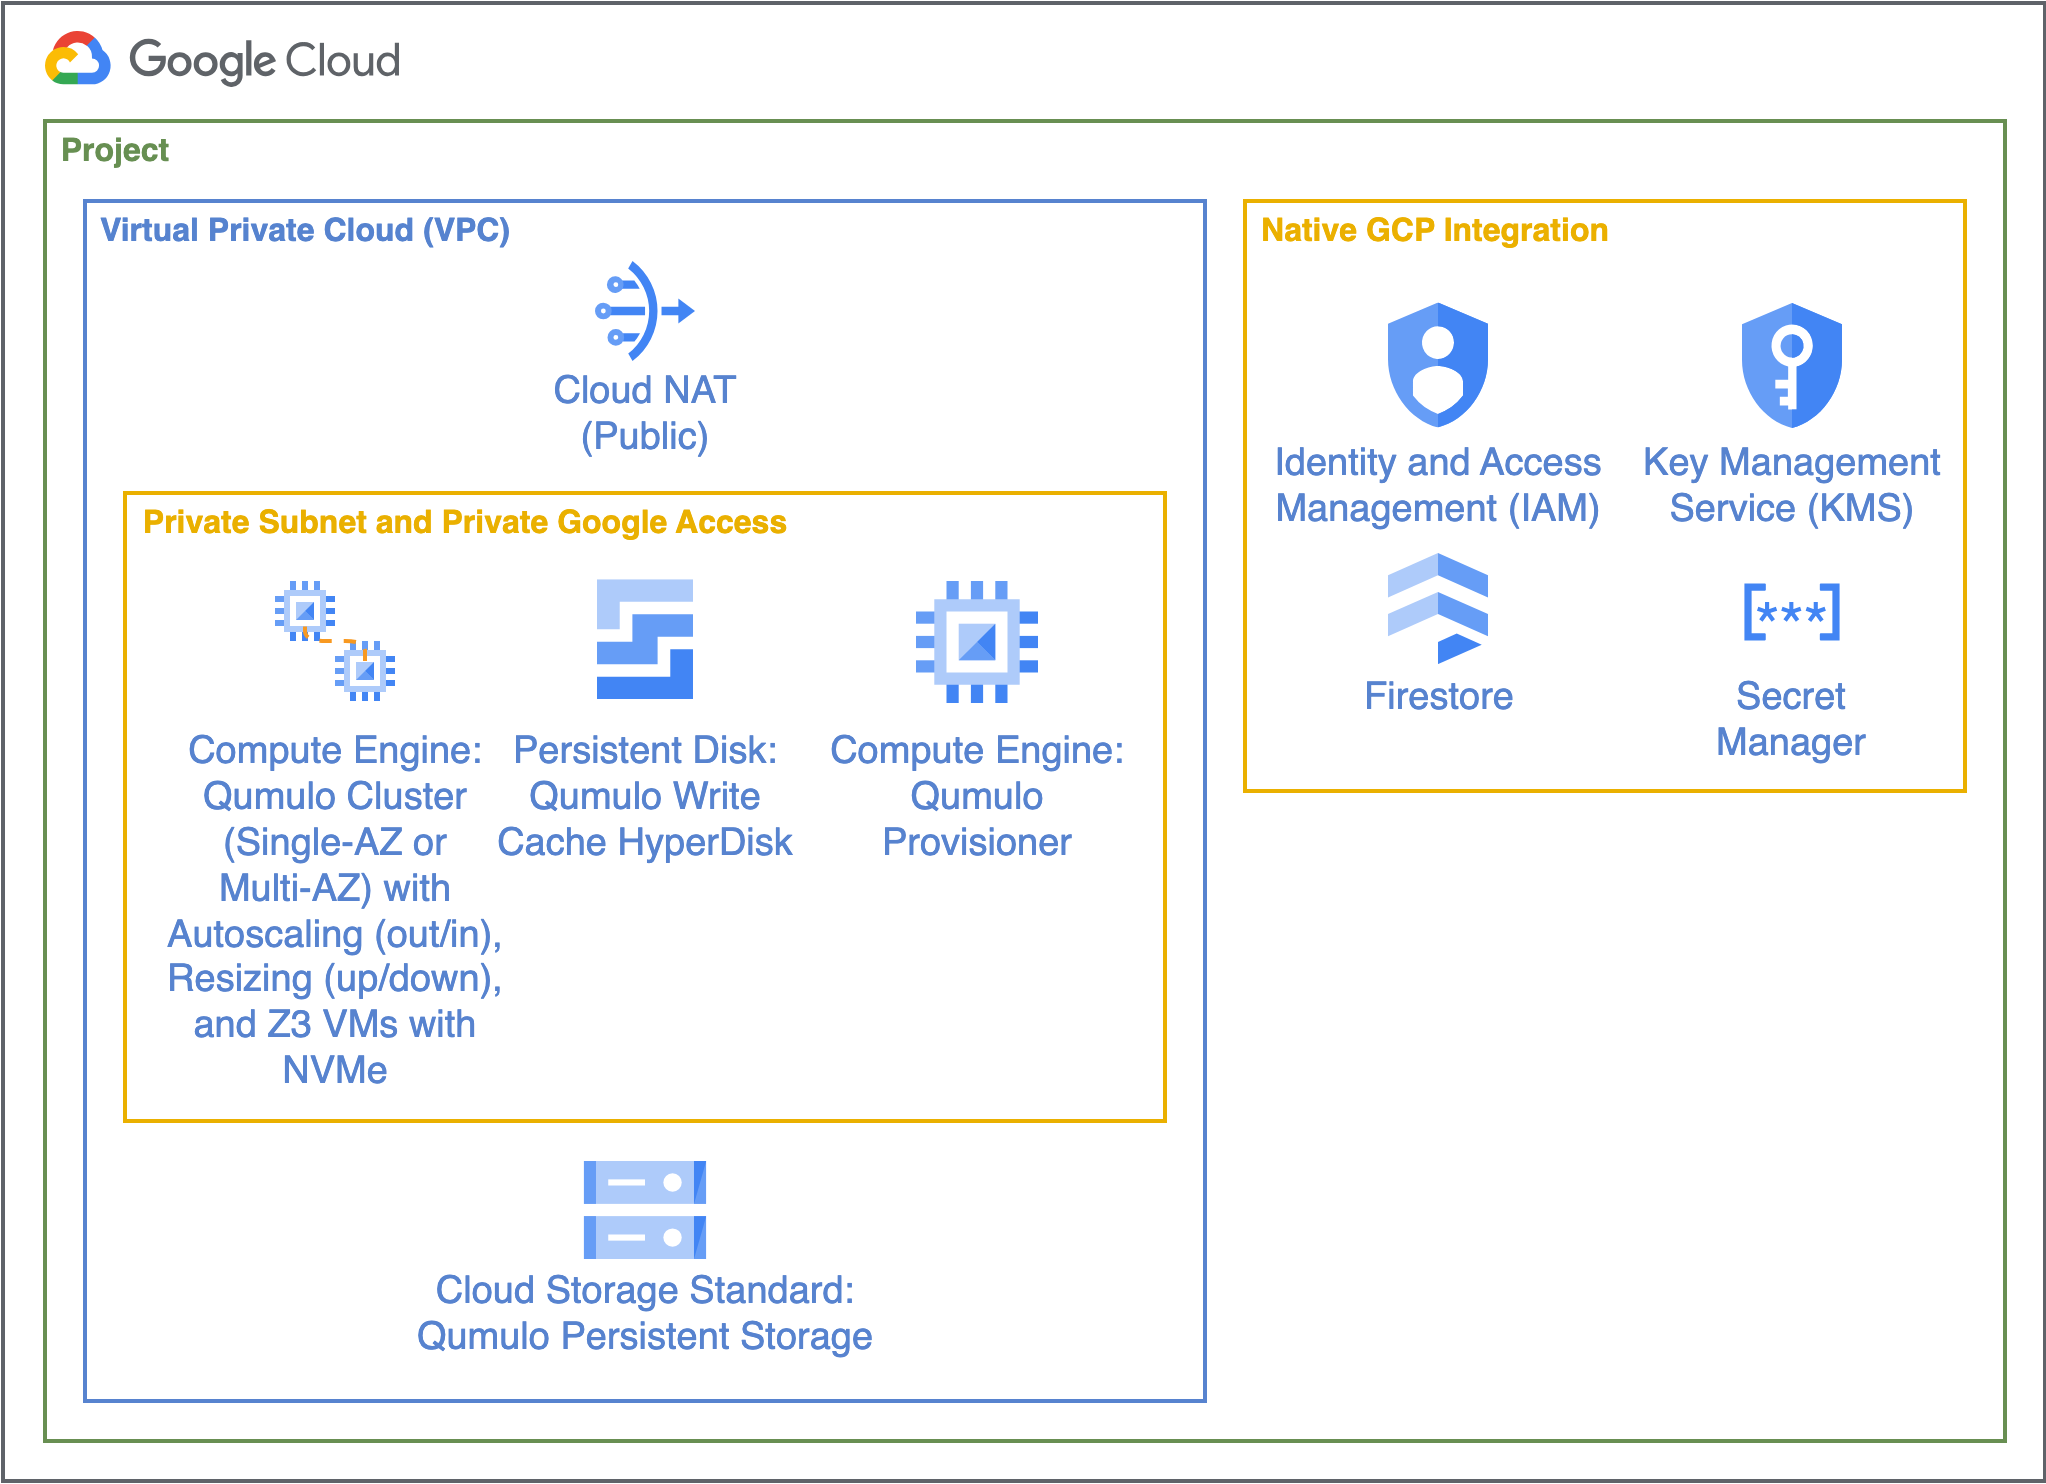
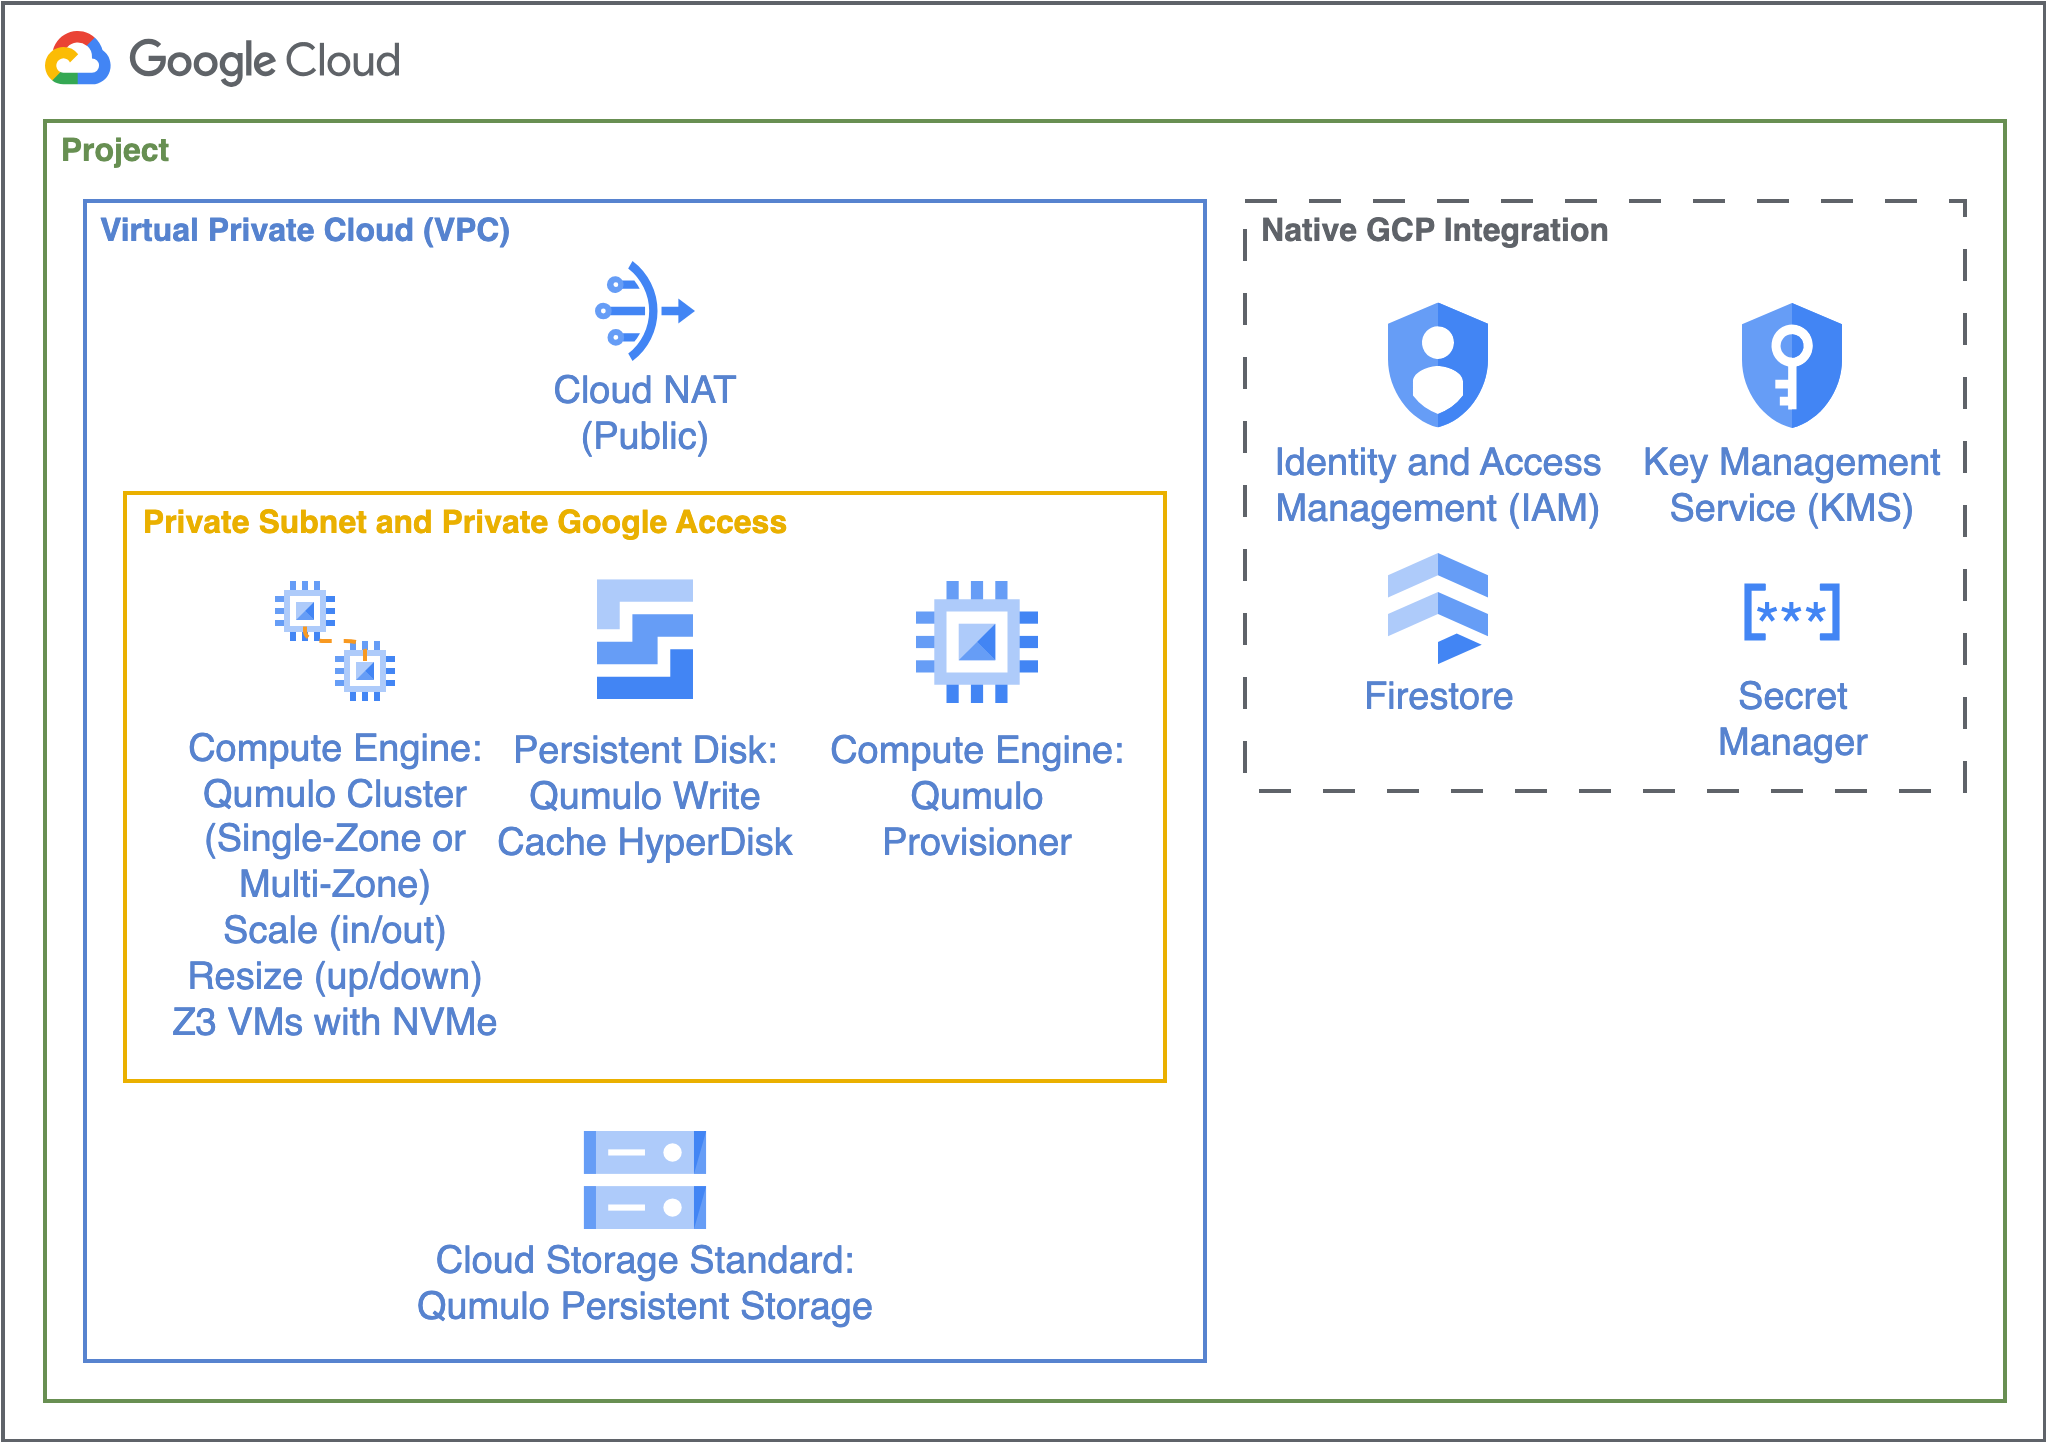
[DOCS-3052] CNQ on GCP Fix-Ups per Dack B. (#496)

diff --git a/_includes/content-reuse/cnq-guide-gcp/deployment-agnostic-cluster-compute-cache-resources.md b/_includes/content-reuse/cnq-guide-gcp/deployment-agnostic-cluster-compute-cache-resources.md
@@ -7,29 +7,31 @@ This section explains how to deploy compute and cache resources for a Qumulo clu
 
 * Provisioning completes successfully when the Provisioner shuts down automatically. If the Provisioner doesn't shut down, the provisioning cycle has failed and you must troubleshoot it. {{site.cnq.monitorGCPProvisioner}}
 
-* The first variable in the example configuration files in the `gcp-terraform-cnq` repository is `deployment_name`. To help avoid conflicts between load balancers, resource labels, and other deployment components, {{site.cnq.deploymentUniqueName}}
+* The first variable in the example configuration files in the `qumulo-terraform-gcp` repository is `deployment_name`. To help avoid conflicts between resource labels and other deployment components, {{site.cnq.deploymentUniqueName}}
 
 * If you plan to deploy multiple Qumulo clusters, give the `q_cluster_name` variable a unique name for each cluster.
 
+{% comment %}
 * We recommend forwarding DNS queries to [Qumulo Authoritative DNS (QDNS)](../network-configuration/configuring-authoritative-dns.html). For multi-zone deployments, specify a value for `q_cluster_fqdn`. Qumulo Core uses this variable to forward DNS requests to your cluster, where Qumulo Core resolves DNS for your floating IP addresses.
+{% endcomment %}
 
 ### To Deploy the Cluster Compute and Cache Resources
 1. Edit the `provider.tf` file:  
 
-   * To store the Terraform state remotely, add the name of an S3 bucket to the sections that begin with `backend "s3" {` and `data "terraform_remote_state" "persistent_storage" {`.
+   * To store the Terraform state remotely, add the name of an S3 bucket to the sections that begin with `backend "gcp" {` and `data "terraform_remote_state" "persistent_storage" {`.
 
-   * To store the Terraform state locally, comment the sections that begin with `backend "s3" {` and `data "terraform_remote_state" "persistent_storage" {` and uncomment the section that contains `backend = "local"`.
+   * To store the Terraform state locally, comment the sections that begin with `backend "gcp" {` and `data "terraform_remote_state" "persistent_storage" {` and uncomment the section that contains `backend = "local"`.
    
      {% capture noLocal %}{{site.cnq.dontRecommendLocalState}}{% endcapture %}  
      {% include important.html content=noLocal %}
 
-1. Navigate to the `gcp-terraform-cnq-<x.y>/compute` directory and then run the `terraform init` command.
+1. Navigate to the `qumulo-terraform-gcp-<x.y>/compute` directory and then run the `terraform init` command.
 
    Terraform prepares the environment and displays the message `Terraform has been successfully initialized!`
 
 1. Edit the `terraform.tfvars` file, specifying the values for all variables.
 
-   For more information, see `README.pdf` in `gcp-terraform-cnq-<x.y>.zip`.
+   For more information, see `README.pdf` in `qumulo-terraform-gcp-<x.y>.zip`.
 
 1. {{site.cnq.runTFapply}}
 

diff --git a/_includes/content-reuse/cnq-guide-gcp/deployment-agnostic-post-deployment-actions.md b/_includes/content-reuse/cnq-guide-gcp/deployment-agnostic-post-deployment-actions.md
@@ -21,7 +21,7 @@ This section describes the common actions you can perform on a {{site.cnqShort}}
      "{{site.exampleIP9}}"   
    ])
    ```   
-{% capture verifyProvis %}To ensure that the Provisioner shut downs automatically, monitor the `/qumulo/my-deployment-name/last-run-status` parameter for the Provisioner. {{site.cnq.monitorGCPProvisioner}}{% endcapture %}
+{% capture verifyProvis %}{{site.cnq.monitorGCPProvisionerShutdown}} {{site.cnq.monitorGCPProvisioner}}{% endcapture %}
 1. {{verifyProvis}}
 1. {{site.cnq.logIntoWebUI}}
 
@@ -180,7 +180,7 @@ Increasing the soft capacity limit for an existing cluster is a two-step process
    ```
 
 #### Step 2: Update Existing Compute and Cache Resource Deployment
-1. Navigate to the root directory of the `gcp-terraform-cnq-<x.y>` repository.
+1. Navigate to the root directory of the `qumulo-terraform-gcp-<x.y>` repository.
 1. {{site.cnq.runTFapply}}
 
    {{site.cnq.reviewExecPlan}}
@@ -207,11 +207,16 @@ Changing the GCE instance type of your {{site.gcp.cnqCNQshort}} cluster is a thr
 
    1. Specify the value for the `gcp_subnet_name` variable.
 
+   1. Specify the value for the `gcp_zones` variable.
+
       {% include note.html content="For multi-zone deployments, specify values as a comma-delimited list." %}
 
    1. Specify the value for the `q_instance_type` variable.
+
    1. Set the value of the `q_replacement_cluster` variable to `true`.
+
    1. Set the value of the `q_existing_deployment_unique_name` variable to the current deployment's name.
+
    1. (Optional) To change the number of nodes, specify the value for the `q_node_count` variable.
 
    {% include important.html content="Leave the other variables unchanged." %}

diff --git a/_includes/content-reuse/cnq-guide-gcp/deployment-agnostic-cluster-persistent-storage.md b/_includes/content-reuse/cnq-guide-gcp/deployment-agnostic-cluster-persistent-storage.md
@@ -15,7 +15,7 @@ Before you can deploy the persistent storage for your cluster, you must download
 1. Within this directory, create another directory with the Qumulo Core version as its name. For example:
 
    ```
-    gs://my-gcs-bucket-name/my-prefix/qumulo-core-install/7.5.0
+    gs://my-gcs-bucket-name/my-prefix/qumulo-core-install/7.6.0
    ```
 
    {% capture newVer %}{{site.cnq.qCoreVerTip}}{% endcapture %}
@@ -23,7 +23,7 @@ Before you can deploy the persistent storage for your cluster, you must download
 
 1. {{site.cnq.copyDebAndConfig}}
 
-1. Copy `gcp-terraform-cnq-<x.y>.zip` to your Terraform environment and then decompress the file.
+1. Copy `qumulo-terraform-gcp-<x.y>.zip` to your Terraform environment and then decompress the file.
 
 <a id="create-necessary-resources"></a>
 ### Part 2: Create the Necessary Resources
@@ -31,9 +31,9 @@ Before you can deploy the persistent storage for your cluster, you must download
 
 1. Edit the `provider.tf` file:
 
-   * To store the Terraform state remotely, add the name of a GCS bucket to the section that begins with `backend "s3" {`.
+   * To store the Terraform state remotely, add the name of a GCS bucket to the section that begins with `backend "gcp" {`.
 
-   * To store the Terraform state locally, comment out the section that begins with `backend "s3" {`.
+   * To store the Terraform state locally, comment out the section that begins with `backend "gcp" {`.
 
      {% capture noLocal %}{{site.cnq.dontRecommendLocalState}}{% endcapture %}
      {% include important.html content=noLocal %}

diff --git a/cloud-native-gcp-administrator-guide/getting-started/how-cloud-native-qumulo-works.md b/cloud-native-gcp-administrator-guide/getting-started/how-cloud-native-qumulo-works.md
@@ -6,7 +6,7 @@ sidebar: cloud_native_gcp_administrator_guide_sidebar
 ---
 
 ## What is Cloud Native Qumulo on GCP?
-{{site.gcp.cnqGCPshort}} is a self-managed Virtual Private Cloud (VPC) deployment that provisions Google Compute Engine (GCE) instances and uses Google Cloud Platform (GCP) infrastructure for a Qumulo file system, which allows the disaggregation of persistent storage from compute resources. You can deploy {{site.gcp.cnqGCPshort}} by using [Terraform](terraform.html) or Deployment Manager templates. 
+{{site.gcp.cnqGCPshort}} is a self-managed Virtual Private Cloud (VPC) deployment that provisions Google Compute Engine (GCE) instances and uses Google Cloud Platform (GCP) infrastructure for a Qumulo file system, which allows the disaggregation of persistent storage from compute resources. You can deploy {{site.gcp.cnqGCPshort}} by using [Terraform](terraform.html). 
 
 {{site.gcp.cnqGCPshort}} provides the same multi-protocol support, interfaces, and functionality as Qumulo on premises.
 

diff --git a/cloud-native-gcp-administrator-guide/getting-started/terraform.md b/cloud-native-gcp-administrator-guide/getting-started/terraform.md
@@ -3,7 +3,7 @@ title: "Deploying Cloud Native Qumulo on GCP with Terraform"
 summary: "This section explains how to deploy Cloud Native Qumulo (CNQ) on GCP by creating the persistent storage and the cluster compute and cache resources by using Terraform. It also provides recommendations for Terraform deployments and information about post-deployment actions and optimization."
 permalink: /cloud-native-gcp-administrator-guide/getting-started/terraform.html
 sidebar: cloud_native_gcp_administrator_guide_sidebar
-varRepoLink: <code>gcp-terraform-cnq-&lt;x.y&gt;.zip</code> file (the version in the file name corresponds to the provisioning scripts, not to the version of Qumulo Core)
+varRepoLink: <code>qumulo-terraform-gcp-&lt;x.y&gt;.zip</code> file (the version in the file name corresponds to the provisioning scripts, not to the version of Qumulo Core)
 deployment: tf
 ---
 

diff --git a/_includes/content-reuse/cnq-guide-gcp/deployment-agnostic-monitor-provisioner-status.md b/_includes/content-reuse/cnq-guide-gcp/deployment-agnostic-monitor-provisioner-status.md
@@ -1,4 +1,16 @@
-You can monitor the Provisioner from the GCP Console (in your project, click **Compute Engine &gt; VM Instances**) or by using the `gcloud` CLI. The Provisioner stores all necessary state information in a Firestore database and shuts down automatically when it completes its tasks.
+You can monitor the Provisioner from the GCP Console or by using the `gcloud` CLI.
+
+#### To Monitor the Provisioner's Status by Using the GCP Console
+
+1. Log in to the GCP Console.
+
+1. In your project, click **Compute Engine &gt; VM Instances**.
+
+1. {{site.cnq.monitorGCPProvisionerShutdown}}
+
+   The Provisioner stores all necessary state information in a Firestore database and shuts down automatically when it completes its tasks.
+
+#### To Monitor the Provisioner's Status by using the gcloud CLI
 
 <ol>
   <li>

diff --git a/_includes/content-reuse/cnq-guide-gcp/deployment-agnostic-preamble-prerequisites-provisioner.md b/_includes/content-reuse/cnq-guide-gcp/deployment-agnostic-preamble-prerequisites-provisioner.md
@@ -59,5 +59,4 @@ This section explains the prerequisites to deploying {{site.gcp.cnqGCPshort}}.
 The {{site.cnqShort}} Provisioner is a Google Compute Engine (GCE) instance that configures your Qumulo cluster and any additional GCP environment requirements.
 
 <a id="monitor-provisioner-status"></a>
-#### To Monitor the Provisioner's Status
 {% include content-reuse/cnq-guide-gcp/deployment-agnostic-monitor-provisioner-status.md %}
